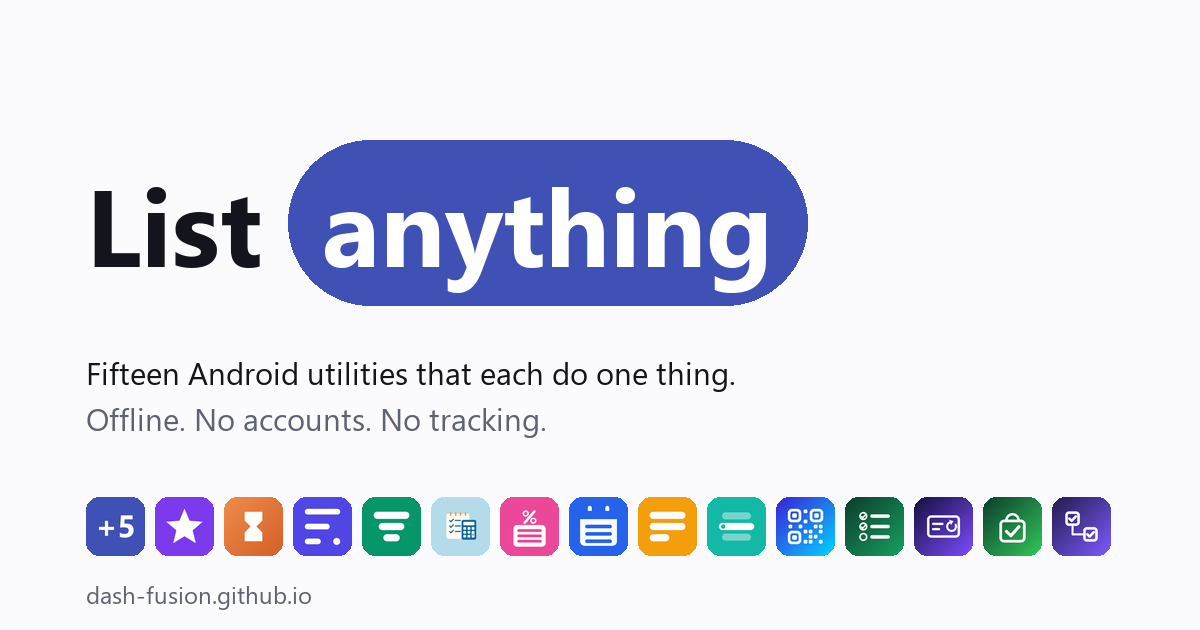
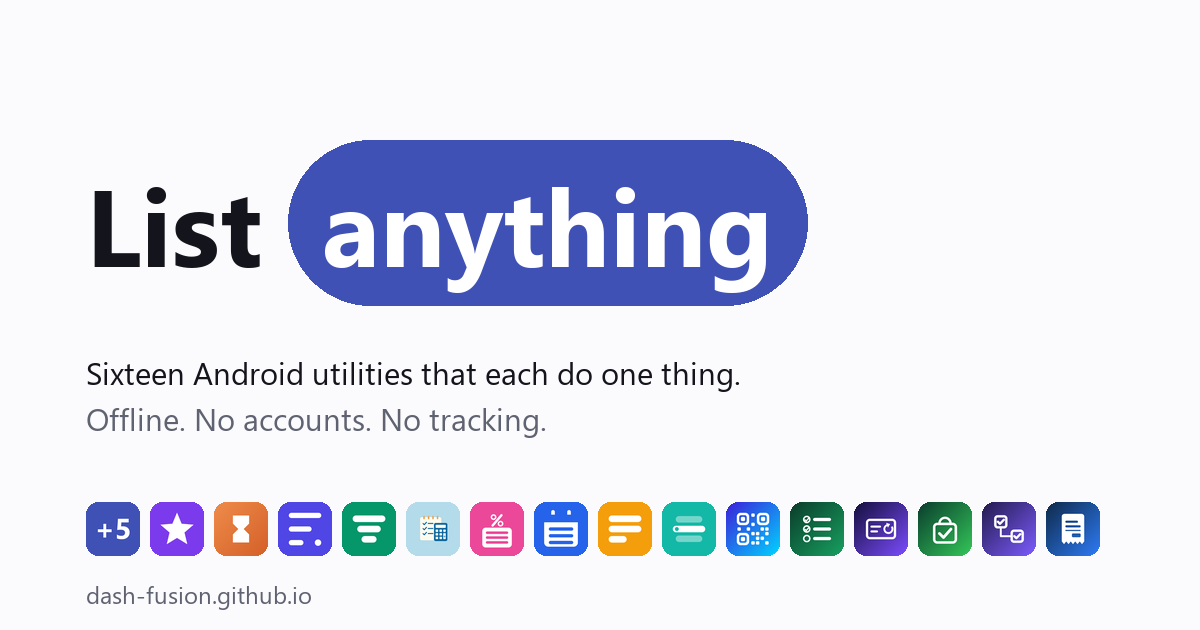
Add List Invoice as the sixteenth app

Changed region(s): [[0.0617, 0.7841, 0.925, 0.9048], [0.0617, 0.573, 0.6167, 0.6333]]

diff --git a/index.html b/index.html
@@ -5,7 +5,7 @@
 <meta name="viewport" content="width=device-width, initial-scale=1">
 
 <title>Dash Fusion — offline-first Android utility apps</title>
-<meta name="description" content="Fifteen small Android utilities that each do one thing well — counters, timers, budgets, subscriptions, shopping lists, notes, QR codes and more — plus two offline games: Potion Sort color-sort puzzles and Neon PingPong arcade duels. Everything works fully offline, with no account required.">
+<meta name="description" content="Sixteen small Android utilities that each do one thing well — counters, timers, budgets, subscriptions, shopping lists, notes, QR codes and more — plus two offline games: Potion Sort color-sort puzzles and Neon PingPong arcade duels. Everything works fully offline, with no account required.">
 <link rel="canonical" href="https://dash-fusion.github.io/">
 <meta name="author" content="Dash Fusion">
 <meta name="robots" content="index, follow, max-image-preview:large">
@@ -16,14 +16,14 @@
 <meta property="og:site_name" content="Dash Fusion">
 <meta property="og:url" content="https://dash-fusion.github.io/">
 <meta property="og:title" content="Dash Fusion — offline-first Android utility apps">
-<meta property="og:description" content="Fifteen small Android utilities that each do one thing well, plus two offline games — Potion Sort and Neon PingPong. No account required.">
+<meta property="og:description" content="Sixteen small Android utilities that each do one thing well, plus two offline games — Potion Sort and Neon PingPong. No account required.">
 <meta property="og:image" content="https://dash-fusion.github.io/og.png">
 <meta property="og:image:width" content="1200">
 <meta property="og:image:height" content="630">
-<meta property="og:image:alt" content="Dash Fusion — List anything. The fifteen app icons in a row.">
+<meta property="og:image:alt" content="Dash Fusion — List anything. The sixteen app icons in a row.">
 <meta name="twitter:card" content="summary_large_image">
 <meta name="twitter:title" content="Dash Fusion — offline-first Android utility apps">
-<meta name="twitter:description" content="Fifteen small Android utilities that each do one thing well, plus two offline games — Potion Sort and Neon PingPong. No account required.">
+<meta name="twitter:description" content="Sixteen small Android utilities that each do one thing well, plus two offline games — Potion Sort and Neon PingPong. No account required.">
 <meta name="twitter:image" content="https://dash-fusion.github.io/og.png">
 
 <link rel="icon" href="/favicon.svg" type="image/svg+xml">
@@ -320,7 +320,7 @@ a{color:inherit}
 <header class="masthead shell">
   <p class="eyebrow">Dash Fusion</p>
   <h1 class="wordmark">List <span class="slot" id="slot"><span class="slot-text" id="slotText">anything</span></span></h1>
-  <p class="lede">Fifteen Android utilities that each do <strong>one thing</strong> — and two offline games for your breaks. Everything works offline, keeps your data on your phone, and never asks who you are.</p>
+  <p class="lede">Sixteen Android utilities that each do <strong>one thing</strong> — and two offline games for your breaks. Everything works offline, keeps your data on your phone, and never asks who you are.</p>
   <span class="slot-measure" id="slotMeasure" aria-hidden="true"></span>
 </header>
 
@@ -554,6 +554,19 @@ a{color:inherit}
           </div>
         </div>
       </li>
+      <li class="row" style="--hue:#1B5FBE;--deep:#1B5FBE">
+        <div class="row-in">
+          <img class="row-icon" src="icons/list-invoice.png" width="46" height="46" alt="" decoding="async">
+          <div>
+            <h3 class="row-name">List Invoice</h3>
+            <p class="row-desc">Make an invoice and export a clean PDF — no watermark, your logo, saved clients and rates, automatic numbering.</p>
+          </div>
+          <div class="row-links">
+            <a class="play-link" href="https://play.google.com/store/apps/details?id=com.dashfusion.listinvoice" aria-label="List Invoice on Google Play" title="Get it on Google Play"><svg class="play-glyph" aria-hidden="true" focusable="false"><use href="#gplay"></use></svg></a>
+            <a href="https://dash-fusion.github.io/privacy/list-invoice" aria-label="List Invoice privacy policy">Privacy</a>
+          </div>
+        </div>
+      </li>
     </ul>
   </section>
 
@@ -641,7 +654,8 @@ a{color:inherit}
     {t:'Habit',      c:'#0E7A48'},
     {t:'Subs',       c:'#5B33D6'},
     {t:'Grocery',    c:'#146B45'},
-    {t:'Todo',       c:'#4632B4'}
+    {t:'Todo',       c:'#4632B4'},
+    {t:'Invoice',    c:'#1B5FBE'}
   ];
   var i = 0;
 
@@ -708,7 +722,7 @@ a{color:inherit}
     {
       "@type":"ItemList",
       "name":"Dash Fusion Android apps",
-      "numberOfItems":17,
+      "numberOfItems":18,
       "itemListElement":[
         {"@type":"ListItem","position":1,"item":{"@type":"MobileApplication","name":"List Counter","applicationCategory":"UtilitiesApplication","operatingSystem":"Android","url":"https://play.google.com/store/apps/details?id=com.dashfusion.listcounter","image":"https://dash-fusion.github.io/icons/list-counter.png","description":"Tally reps, stock, laps or attendees with as many counters as you need.","author":{"@id":"https://dash-fusion.github.io/#org"},"offers":{"@type":"Offer","price":"0","priceCurrency":"USD"}}},
         {"@type":"ListItem","position":2,"item":{"@type":"MobileApplication","name":"List Habit","applicationCategory":"UtilitiesApplication","operatingSystem":"Android","url":"https://play.google.com/store/apps/details?id=com.dashfusion.listhabit","image":"https://dash-fusion.github.io/icons/list-habit.png","description":"Offline habit tracker — daily, weekday or weekly-goal habits with streaks, a month calendar and gentle reminders.","author":{"@id":"https://dash-fusion.github.io/#org"},"offers":{"@type":"Offer","price":"0","priceCurrency":"USD"}}},
@@ -725,8 +739,9 @@ a{color:inherit}
         {"@type":"ListItem","position":13,"item":{"@type":"MobileApplication","name":"List Grocery","applicationCategory":"ShoppingApplication","operatingSystem":"Android","url":"https://play.google.com/store/apps/details?id=com.dashfusion.listgrocery","image":"https://dash-fusion.github.io/icons/list-grocery.png","description":"Offline shopping list built for the aisle — quick add, aisle order per store, staples, templates and an estimated total. No account, no banner ads.","author":{"@id":"https://dash-fusion.github.io/#org"},"offers":{"@type":"Offer","price":"0","priceCurrency":"USD"}}},
         {"@type":"ListItem","position":14,"item":{"@type":"MobileApplication","name":"List Todo","applicationCategory":"ProductivityApplication","operatingSystem":"Android","url":"https://play.google.com/store/apps/details?id=com.dashfusion.listtodo","image":"https://dash-fusion.github.io/icons/list-todo.png","description":"Offline to-do list with unlimited nested sub-tasks — tick a parent to finish the branch, plus due dates, reminders and repeating tasks at any depth. No account, no banner ads.","author":{"@id":"https://dash-fusion.github.io/#org"},"offers":{"@type":"Offer","price":"0","priceCurrency":"USD"}}},
         {"@type":"ListItem","position":15,"item":{"@type":"MobileApplication","name":"List QR","applicationCategory":"UtilitiesApplication","operatingSystem":"Android","url":"https://play.google.com/store/apps/details?id=com.dashfusion.qrgenerator","image":"https://dash-fusion.github.io/icons/list-qr.png","description":"Offline QR code and barcode generator — styled codes that still scan, saved to a list on your device.","author":{"@id":"https://dash-fusion.github.io/#org"},"offers":{"@type":"Offer","price":"0","priceCurrency":"USD"}}},
-        {"@type":"ListItem","position":16,"item":{"@type":"MobileApplication","name":"Neon PingPong","applicationCategory":"GameApplication","operatingSystem":"Android","url":"https://play.google.com/store/apps/details?id=com.dashfusion.pingpong","image":"https://dash-fusion.github.io/icons/pingpong.png","description":"Neon arcade ping pong — solo vs AI, two players on one phone, or Wi-Fi multiplayer. Fully offline.","author":{"@id":"https://dash-fusion.github.io/#org"},"offers":{"@type":"Offer","price":"0","priceCurrency":"USD"}}},
-        {"@type":"ListItem","position":17,"item":{"@type":"MobileApplication","name":"Potion Sort","applicationCategory":"GameApplication","operatingSystem":"Android","url":"https://play.google.com/store/apps/details?id=com.dashfusion.potion_sort","image":"https://dash-fusion.github.io/icons/potion-sort.png","description":"Offline color-sort puzzle with 999 solver-verified levels and a daily challenge.","author":{"@id":"https://dash-fusion.github.io/#org"},"offers":{"@type":"Offer","price":"0","priceCurrency":"USD"}}}
+        {"@type":"ListItem","position":16,"item":{"@type":"MobileApplication","name":"List Invoice","applicationCategory":"BusinessApplication","operatingSystem":"Android","url":"https://play.google.com/store/apps/details?id=com.dashfusion.listinvoice","image":"https://dash-fusion.github.io/icons/list-invoice.png","description":"Offline invoice maker — branded PDF invoices with no watermark, saved clients and items, automatic numbering, and paid and outstanding totals. No account, no banner ads.","author":{"@id":"https://dash-fusion.github.io/#org"},"offers":{"@type":"Offer","price":"0","priceCurrency":"USD"}}},
+        {"@type":"ListItem","position":17,"item":{"@type":"MobileApplication","name":"Neon PingPong","applicationCategory":"GameApplication","operatingSystem":"Android","url":"https://play.google.com/store/apps/details?id=com.dashfusion.pingpong","image":"https://dash-fusion.github.io/icons/pingpong.png","description":"Neon arcade ping pong — solo vs AI, two players on one phone, or Wi-Fi multiplayer. Fully offline.","author":{"@id":"https://dash-fusion.github.io/#org"},"offers":{"@type":"Offer","price":"0","priceCurrency":"USD"}}},
+        {"@type":"ListItem","position":18,"item":{"@type":"MobileApplication","name":"Potion Sort","applicationCategory":"GameApplication","operatingSystem":"Android","url":"https://play.google.com/store/apps/details?id=com.dashfusion.potion_sort","image":"https://dash-fusion.github.io/icons/potion-sort.png","description":"Offline color-sort puzzle with 999 solver-verified levels and a daily challenge.","author":{"@id":"https://dash-fusion.github.io/#org"},"offers":{"@type":"Offer","price":"0","priceCurrency":"USD"}}}
       ]
     }
   ]

diff --git a/scripts/gen_social.py b/scripts/gen_social.py
@@ -25,7 +25,7 @@ REGULAR = "C:/Windows/Fonts/segoeui.ttf"
 APPS = [
     "counter", "score", "timer", "budget", "debt",
     "calculator", "percent", "date", "notes", "picker", "qr", "habit", "subs", "grocery",
-    "todo",
+    "todo", "invoice",
 ]
 
 
@@ -63,7 +63,7 @@ def build_og(path):
 
     d.text(
         (left, py1 + 46),
-        "Fifteen Android utilities that each do one thing.",
+        "Sixteen Android utilities that each do one thing.",
         font=sub,
         fill=INK,
     )
